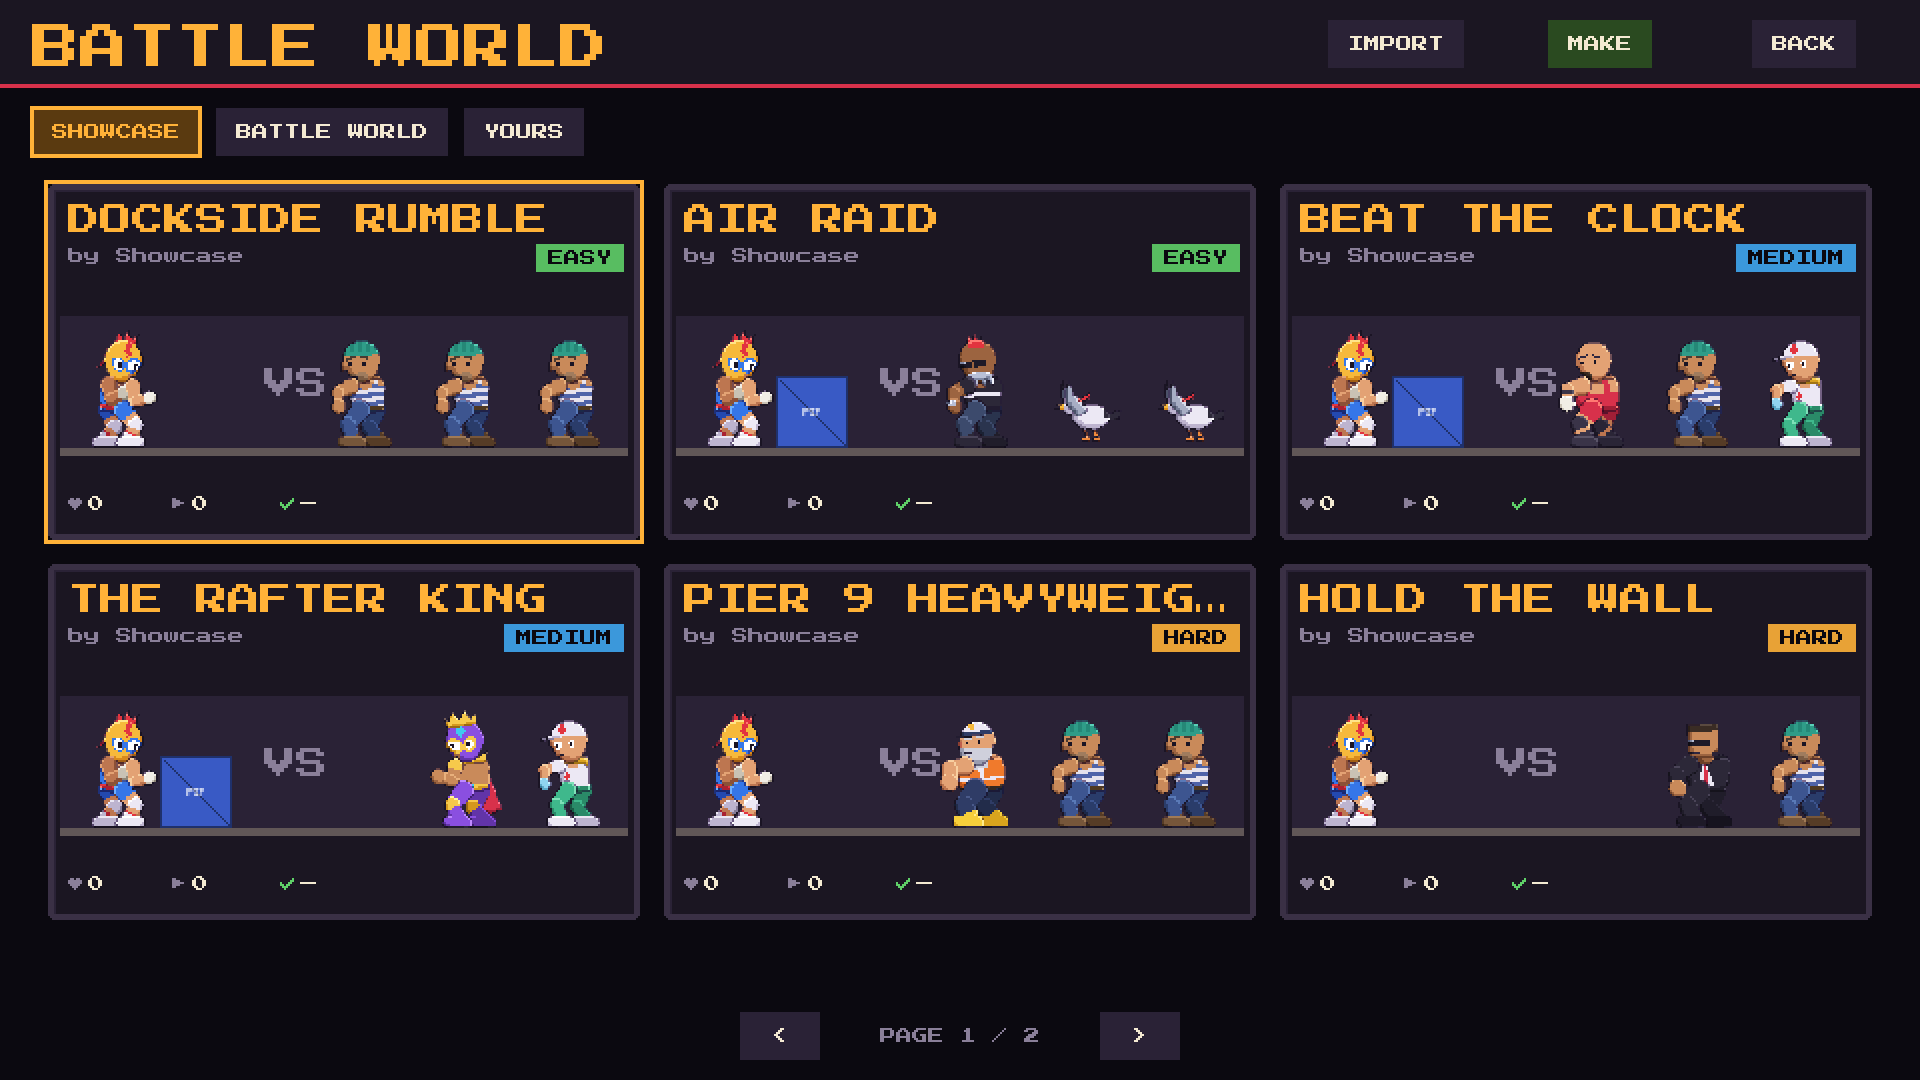
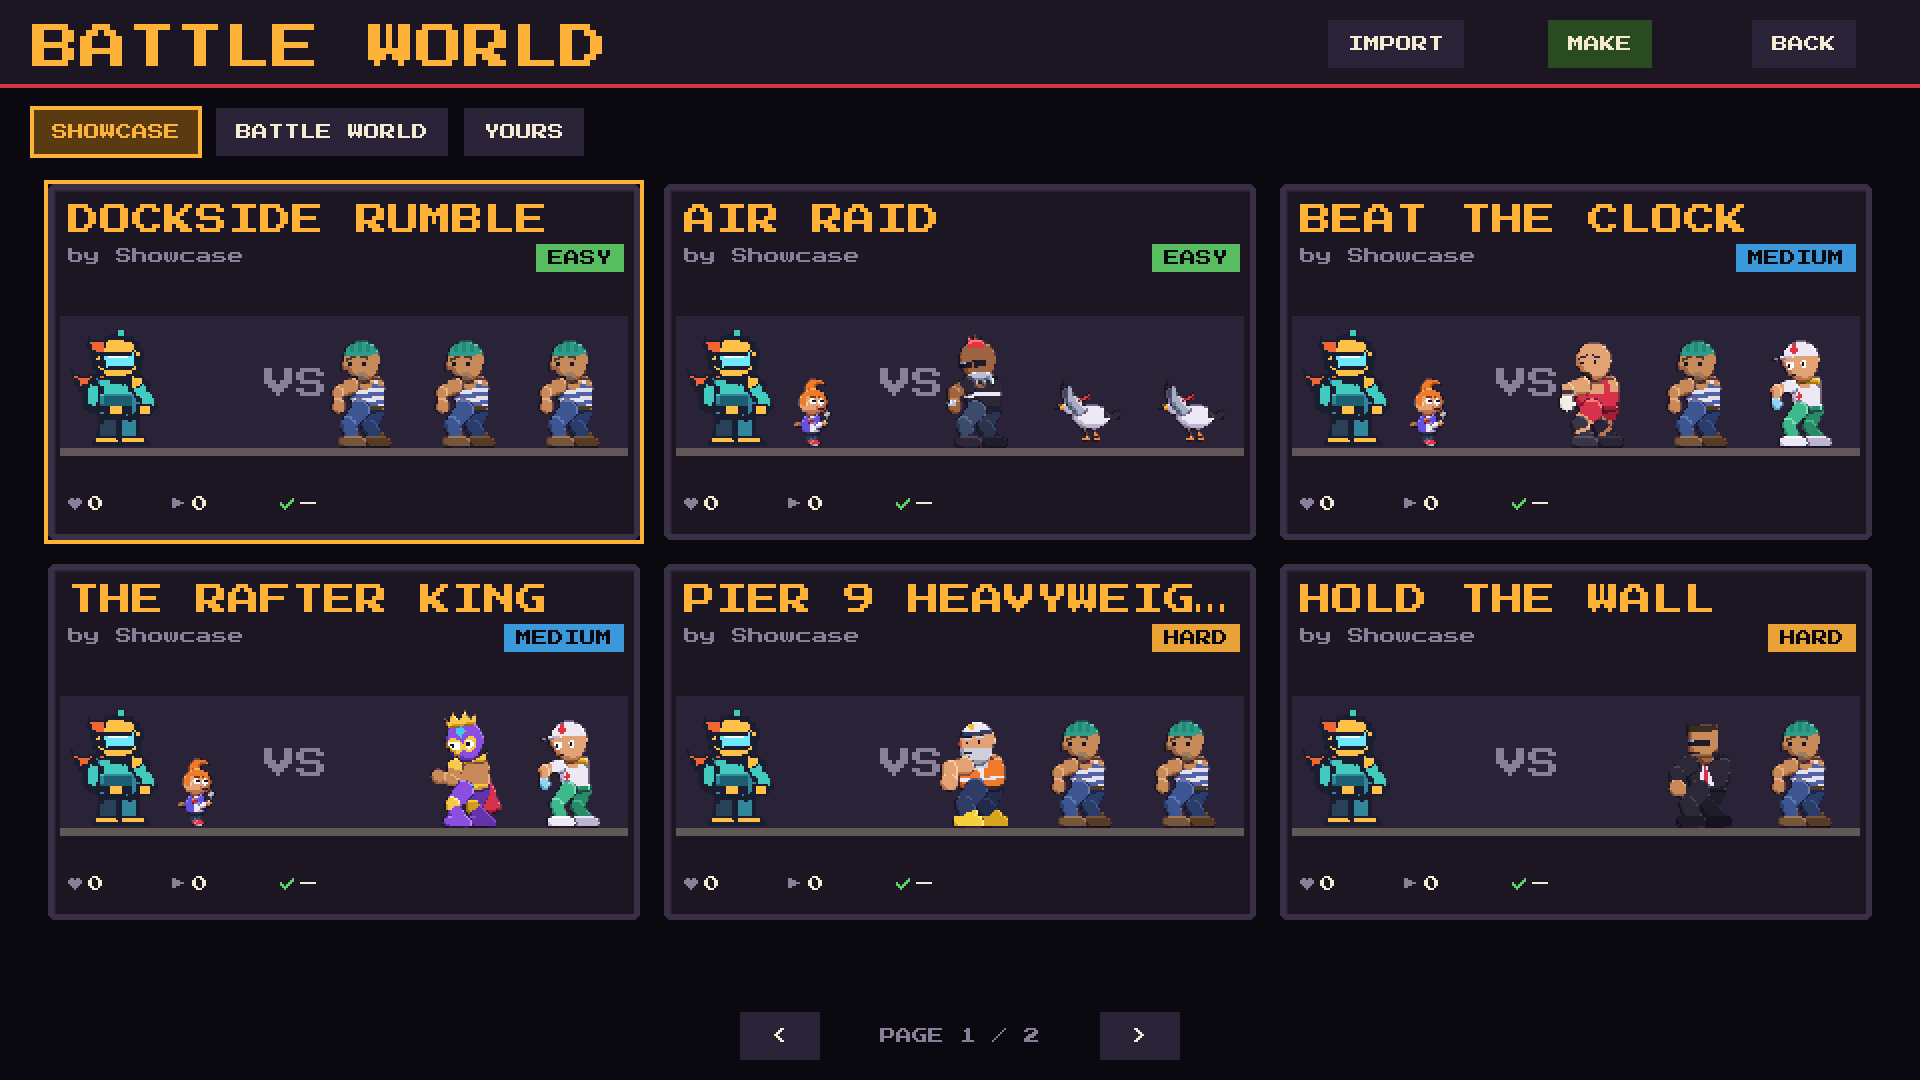
Kid Chispa's new look; Sprite Studio finds square grids even when feet stand on the cell's bottom row
The uploaded sheet (6/8/8/4/6/6 frames) becomes the hero's art; the first look is
kept as art/sprites/kid_chispa_v1.png. Grid detection now prefers the smallest
square grid that doesn't cut through the figures, falling back to the old
empty-line method. Store cover and screenshots refreshed.

Claude-Session: https://claude.ai/code/session_01QyvaQ22fJeH4nYnXb7669o

diff --git a/src/systems/sheet_ops.ts b/src/systems/sheet_ops.ts
@@ -67,11 +67,58 @@ export function frameSizes(side: number, min = 16, max = 512): number[] {
   return out;
 }
 
+/** Whether a pixel is drawn. */
+function solid(p: Pixels, x: number, y: number): boolean {
+  return p.data[(y * p.w + x) * 4 + 3] >= ALPHA_MIN;
+}
+
 /**
- * Finds the frame grid of a sheet. Templates use square frames, so when the
- * sheet can be cut into squares of the size found across, that wins.
+ * How much a square grid of `d` cuts through drawn things: the share of
+ * pixel pairs across its cut lines that are drawn on both sides. A grid that
+ * runs between the figures scores near 0 even when feet stand on the cell's
+ * bottom row or a knocked-out figure pokes over the edge; one that slices
+ * through the figures scores high.
+ */
+function cutCost(p: Pixels, d: number): number {
+  let pairs = 0;
+  let cut = 0;
+  for (let x = d; x < p.w; x += d)
+    for (let y = 0; y < p.h; y++) {
+      pairs++;
+      if (solid(p, x - 1, y) && solid(p, x, y)) cut++;
+    }
+  for (let y = d; y < p.h; y += d)
+    for (let x = 0; x < p.w; x++) {
+      pairs++;
+      if (solid(p, x, y - 1) && solid(p, x, y)) cut++;
+    }
+  return pairs ? cut / pairs : 1;
+}
+
+/** Most a square grid may cut through drawn pixels and still be the sheet's grid. */
+const CUT_TOLERANCE = 0.02;
+
+/**
+ * The sheet's square frame size: the smallest square that splits it evenly
+ * into at least two cells without cutting through the figures. Null when no
+ * square grid fits (frames that aren't square, or figures that touch).
+ */
+function squareGrid(p: Pixels, min: number): number | null {
+  for (let d = min; d <= Math.min(p.w, p.h, 512); d++) {
+    if (p.w % d || p.h % d || (p.w / d) * (p.h / d) < 2) continue;
+    if (cutCost(p, d) <= CUT_TOLERANCE) return d;
+  }
+  return null;
+}
+
+/**
+ * Finds the frame grid of a sheet. Templates use square frames, so a square
+ * grid that runs between the figures wins; otherwise frames are found from
+ * the empty rows and columns between them.
  */
 export function detectGrid(p: Pixels, min = 16): Grid {
+  const sq = squareGrid(p, min);
+  if (sq) return { frameW: sq, frameH: sq, cols: p.w / sq, rows: p.h / sq };
   const cols = emptyLines(p, true);
   const rows = emptyLines(p, false);
   let frameW = pitch(cols, min);

diff --git a/tests/sheets.test.ts b/tests/sheets.test.ts
@@ -36,6 +36,22 @@ describe('sprite sheets', () => {
     expect([strip.frameW, strip.frameH, strip.cols]).toEqual([64, 64, 6]);
   });
 
+  it('finds the grid when feet stand on the bottom row and a figure pokes over the edge', () => {
+    // feet on each cell's bottom row, so no empty line of pixels separates one row of frames from the next
+    const w = 768;
+    const h = 576;
+    const data = new Uint8ClampedArray(w * h * 4);
+    const fill = (x0: number, y0: number, x1: number, y1: number) => {
+      for (let y = y0; y < y1; y++)
+        for (let x = x0; x < x1; x++) data.set([40, 160, 150, 255], (y * w + x) * 4);
+    };
+    for (let r = 0; r < 6; r++)
+      for (let c = 0; c < 6; c++) fill(c * 96 + 28, r * 96 + 3, c * 96 + 68, r * 96 + 96);
+    // a knocked-out figure lying across two cells
+    fill(4 * 96 + 50, 4 * 96 + 80, 5 * 96 + 30, 4 * 96 + 96);
+    expect(detectGrid({ data, w, h })).toEqual({ frameW: 96, frameH: 96, cols: 8, rows: 6 });
+  });
+
   it('a strip whose figures touch: square frames as tall as the strip', () => {
     const p = sheet(5, 1, 80, 80, [[0, 1, 2, 3, 4]], 0);
     expect(detectGrid(p)).toMatchObject({ frameW: 80, frameH: 80, cols: 5 });

diff --git a/src/systems/hero_art.ts b/src/systems/hero_art.ts
@@ -1,6 +1,7 @@
 // Kid Chispa's finished art: a frame-by-frame sprite sheet (96x96 frames, one
-// row per animation), drawn by tools/art/kid_chispa.py. It replaces the test
-// wrestler wherever Kid Chispa appears, unless you gave him a skin.
+// row per animation; art/sprites/kid_chispa.png). It replaces the test wrestler
+// wherever Kid Chispa appears, unless you gave him a skin. His first look, drawn
+// by tools/art/kid_chispa.py, is kept as art/sprites/kid_chispa_v1.png.
 
 import type Phaser from 'phaser';
 import sheetUrl from '../assets/kid_chispa.png';
@@ -17,12 +18,12 @@ export const HERO_SHEET: SheetLook = {
   frameW: 96,
   frameH: 96,
   anims: {
-    idle: { start: 0, count: 4, fps: 5 },
+    idle: { start: 0, count: 6, fps: 6 },
     walk: { start: 8, count: 8, fps: 12 },
-    chop: { start: 16, count: 6, fps: 14 },
-    hurt: { start: 24, count: 3, fps: 10 },
-    ko: { start: 32, count: 4, fps: 9 },
-    win: { start: 40, count: 4, fps: 8 },
+    chop: { start: 16, count: 8, fps: 16 },
+    hurt: { start: 24, count: 4, fps: 12 },
+    ko: { start: 32, count: 6, fps: 10 },
+    win: { start: 40, count: 6, fps: 8 },
   },
 };
 

diff --git a/tools/art/kid_chispa.py b/tools/art/kid_chispa.py
@@ -462,7 +462,7 @@ def victory():
 ROWS = [idle, walk, attack, hurt, knocked_out, victory]
 
 if __name__ == "__main__":
-    out = sys.argv[1] if len(sys.argv) > 1 else "art/sprites/kid_chispa.png"
+    out = sys.argv[1] if len(sys.argv) > 1 else "art/sprites/kid_chispa_v1.png"
     sheet = Image.new("RGBA", (COLS * S, len(ROWS) * S), (0, 0, 0, 0))
     for r, fn in enumerate(ROWS):
         for c, (parts, opts) in enumerate(fn()):

diff --git a/release/itch/STORE_PAGE.md b/release/itch/STORE_PAGE.md
@@ -66,7 +66,7 @@ Everything to fill in on itch.io's "Create a new project" form, in the form's or
 |---|---|
 | Genre | Role Playing |
 | Tags | turn-based, wrestling, level-editor, pixel-art, retro, singleplayer, sandbox, 2d |
-| AI generation disclosure | itch asks whether the project uses generative AI. The code and the fighter sprites were made with Claude: answer for code and graphics accordingly. |
+| AI generation disclosure | itch asks whether the project uses generative AI. The code and the sprites of Pip and the opponents were made with Claude; Kid Chispa's sprite is the one you supplied. Answer for code and graphics accordingly. |
 | Custom noun | battle maker |
 | Inputs | Keyboard, Mouse, Touchscreen |
 | Accessibility | (leave empty) |
